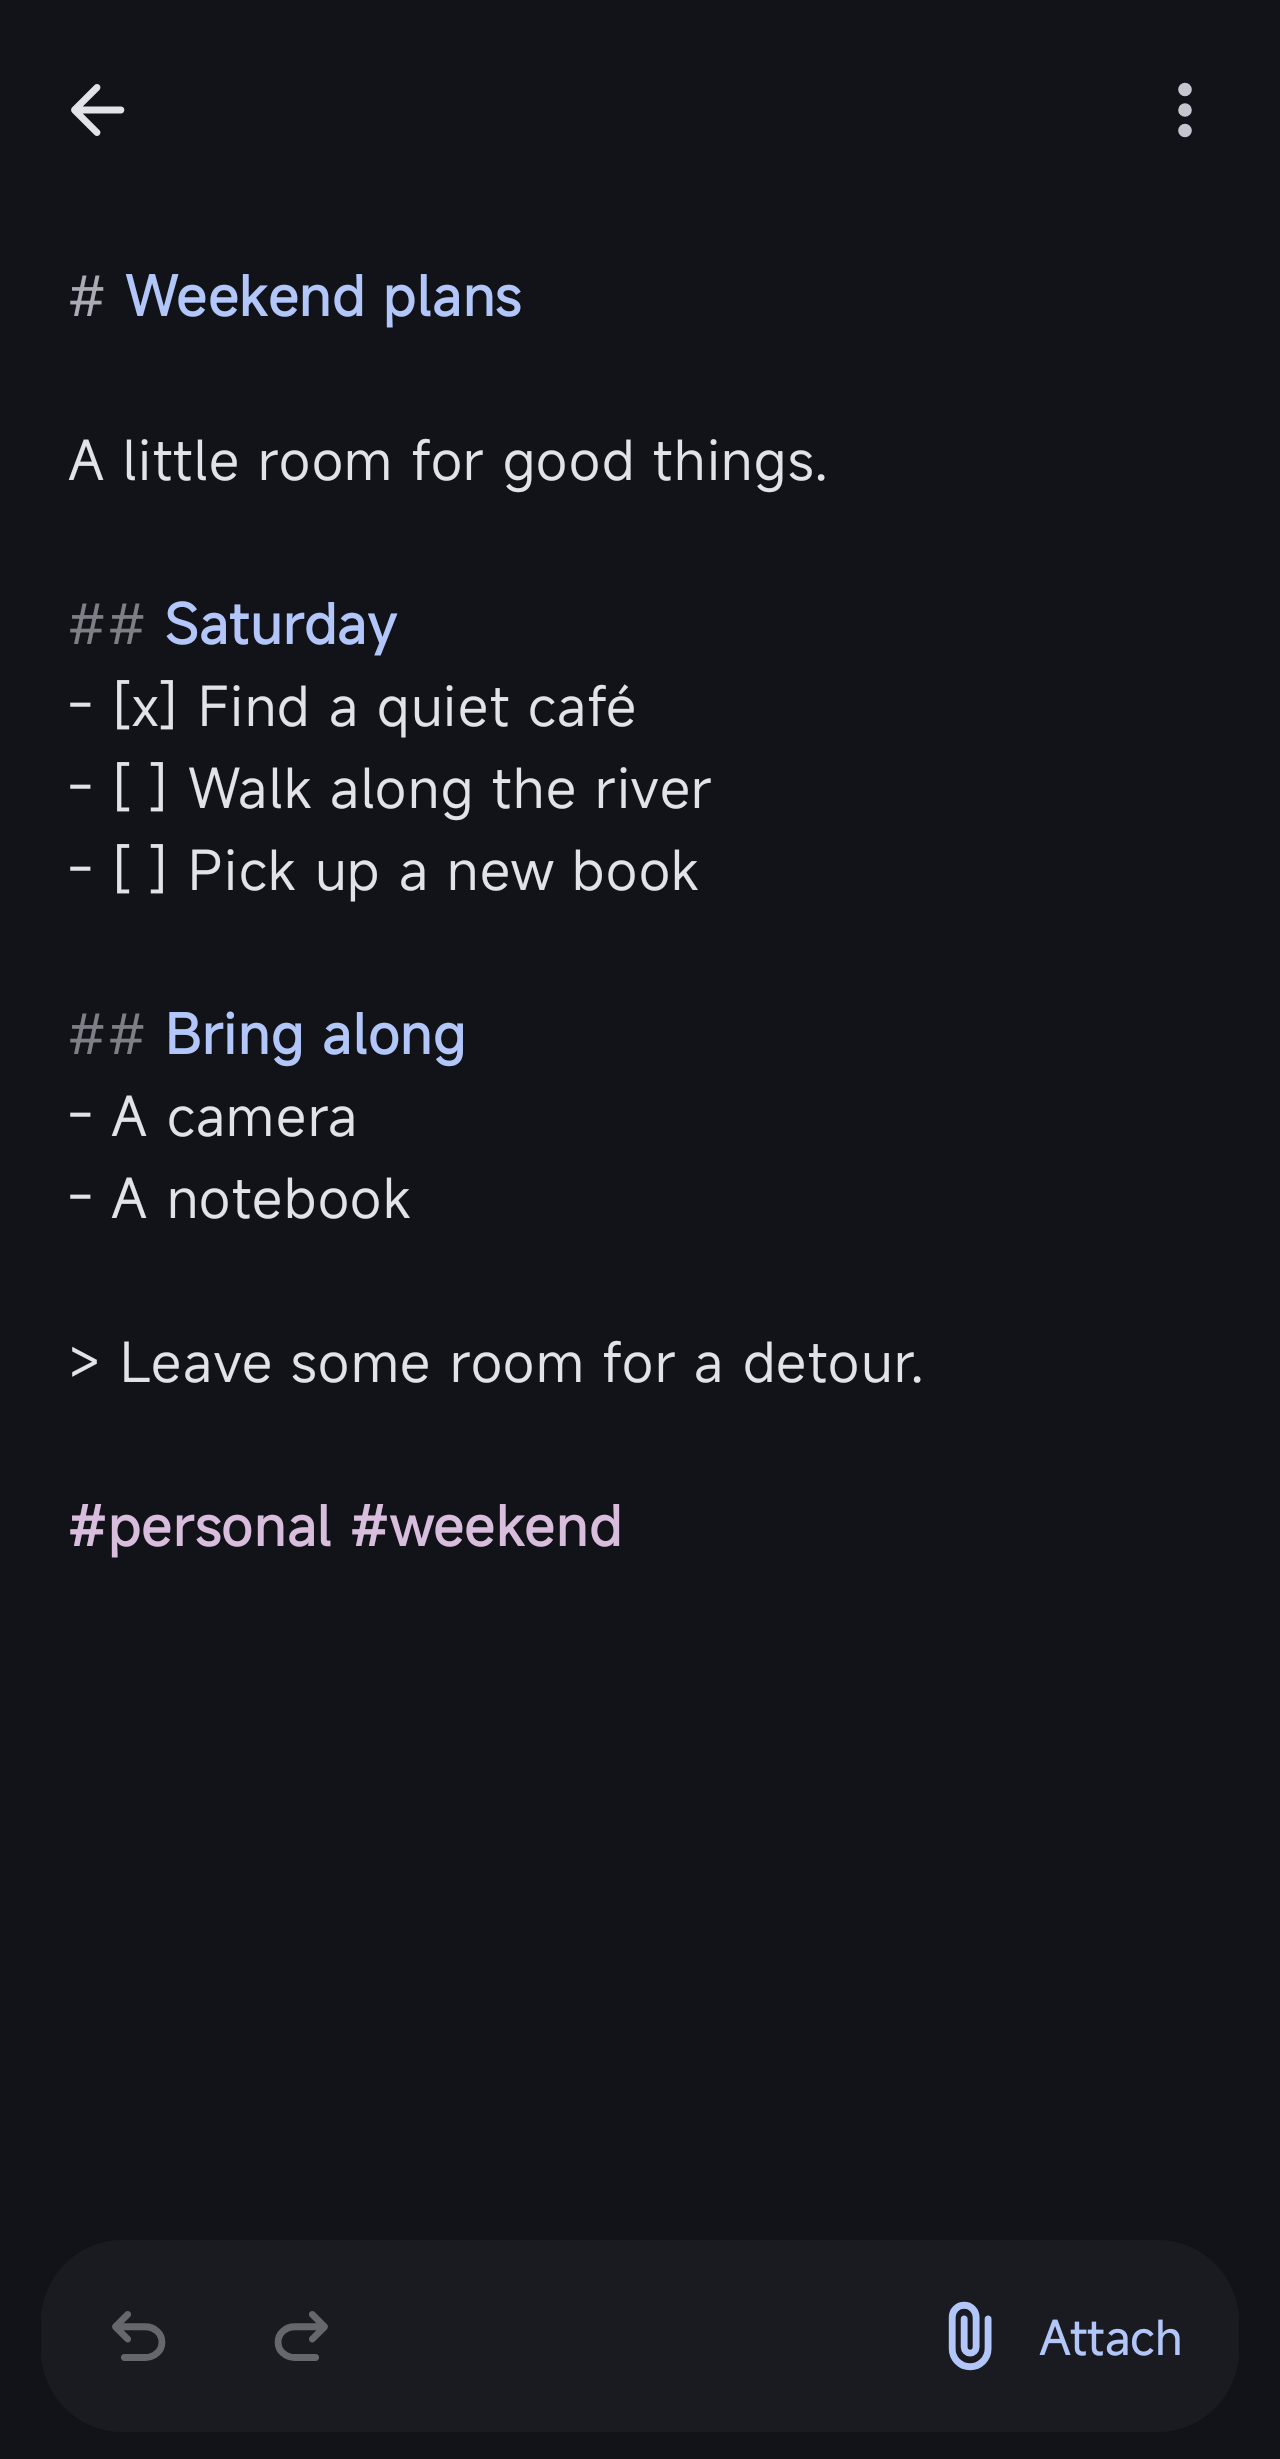
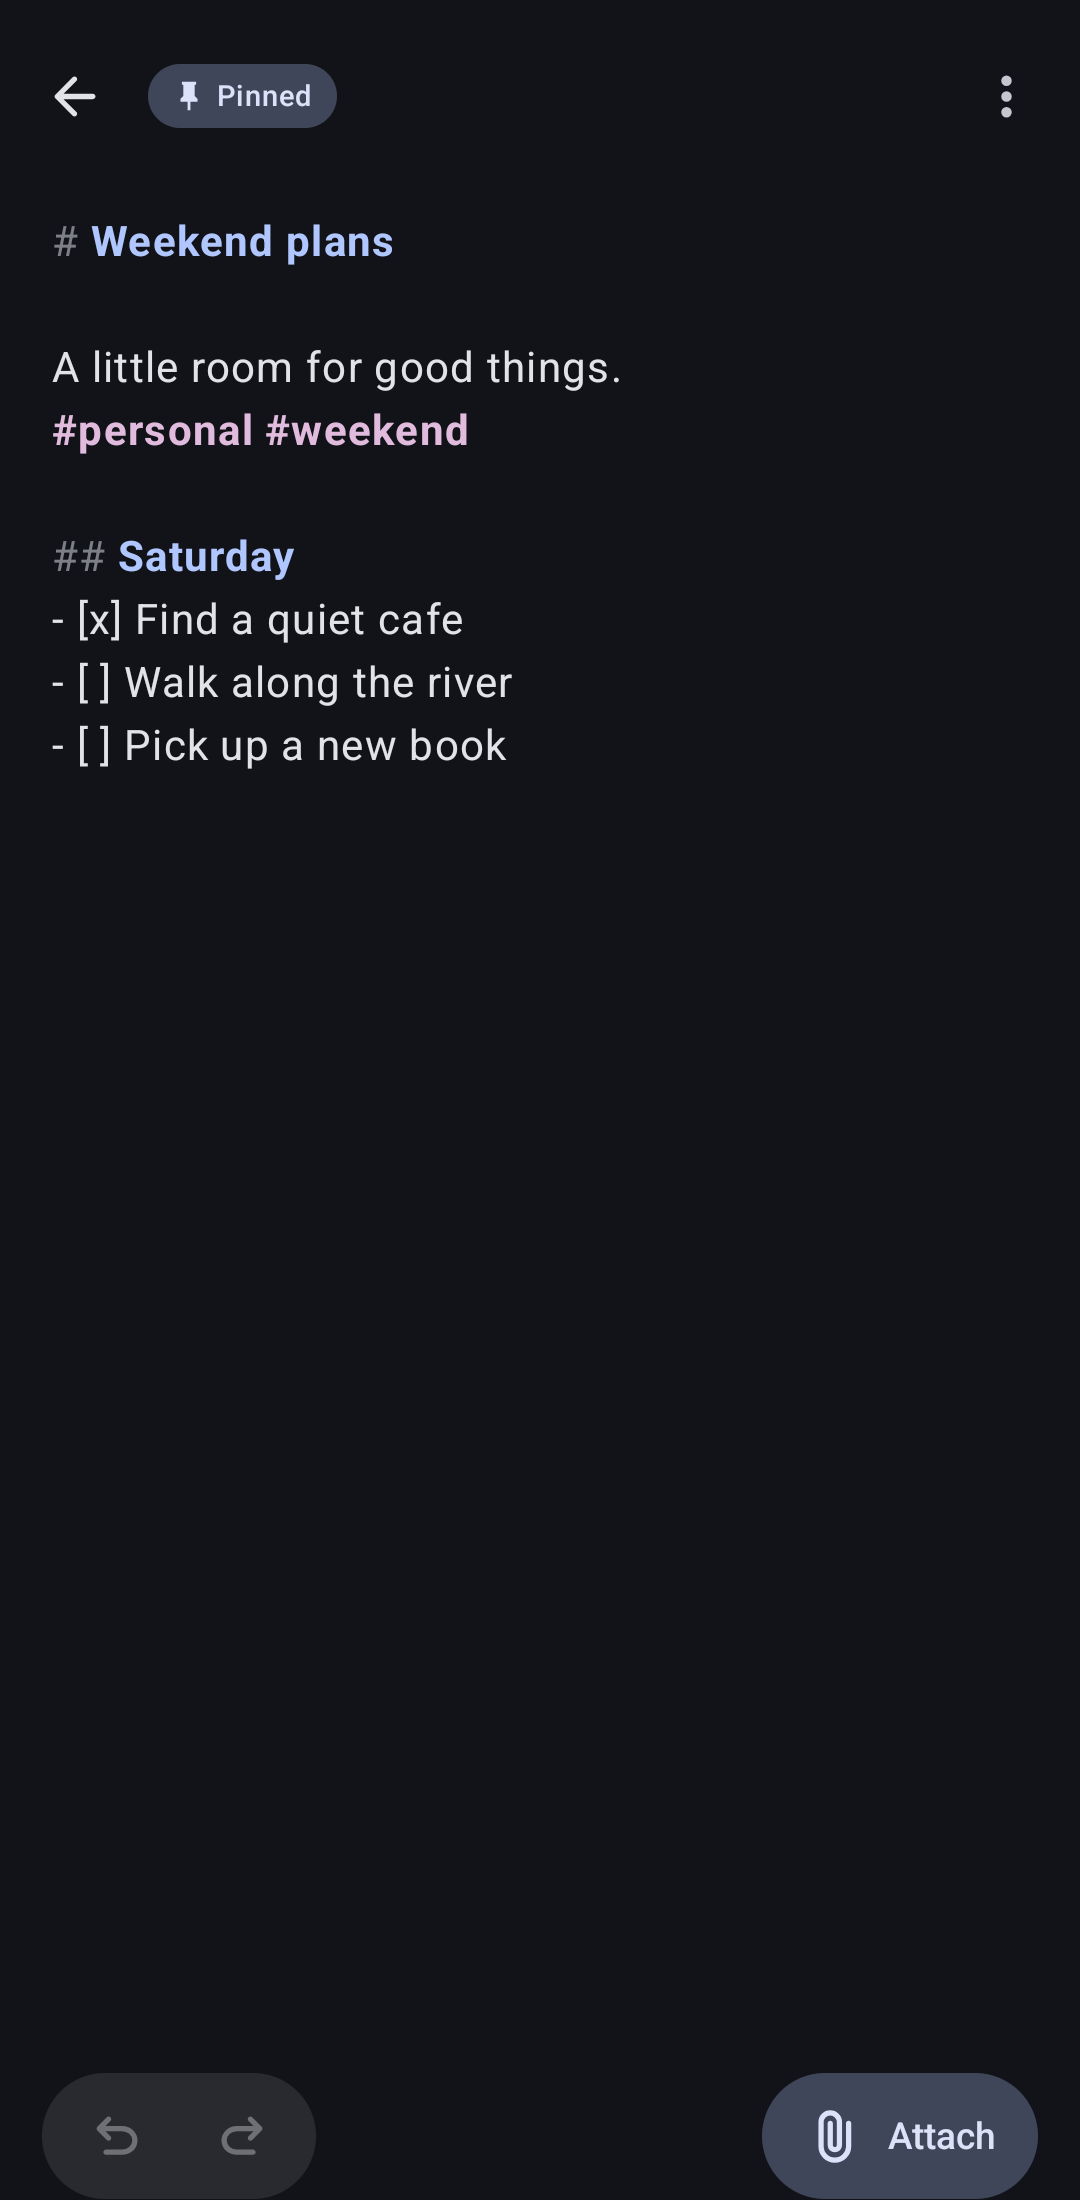
docs: refresh Android screenshots for the expressive redesign, and drop the redundant in-card Pinned label inside the Pinned section

diff --git a/android/app/src/main/kotlin/net/wastu/memoize/ui/MemoizeApp.kt b/android/app/src/main/kotlin/net/wastu/memoize/ui/MemoizeApp.kt
@@ -731,14 +731,15 @@ private fun NotesList(
                         Column(Modifier.padding(16.dp), verticalArrangement = Arrangement.spacedBy(10.dp)) {
                             Row(Modifier.fillMaxWidth(), verticalAlignment = Alignment.Top) {
                                 Column(Modifier.weight(1f)) {
-                                    val showHeader = note.pinned || note.visibility == NoteVisibility.PUBLIC
+                                    val pinLabel = note.pinned && !sectioned
+                                    val showHeader = pinLabel || note.visibility == NoteVisibility.PUBLIC
                                     if (showHeader) {
                                         Row(
                                             verticalAlignment = Alignment.CenterVertically,
                                             horizontalArrangement = Arrangement.spacedBy(8.dp),
                                             modifier = Modifier.padding(bottom = 4.dp)
                                         ) {
-                                            if (note.pinned) {
+                                            if (pinLabel) {
                                                 Row(verticalAlignment = Alignment.CenterVertically) {
                                                     Icon(
                                                         painter = painterResource(R.drawable.ic_pin),
